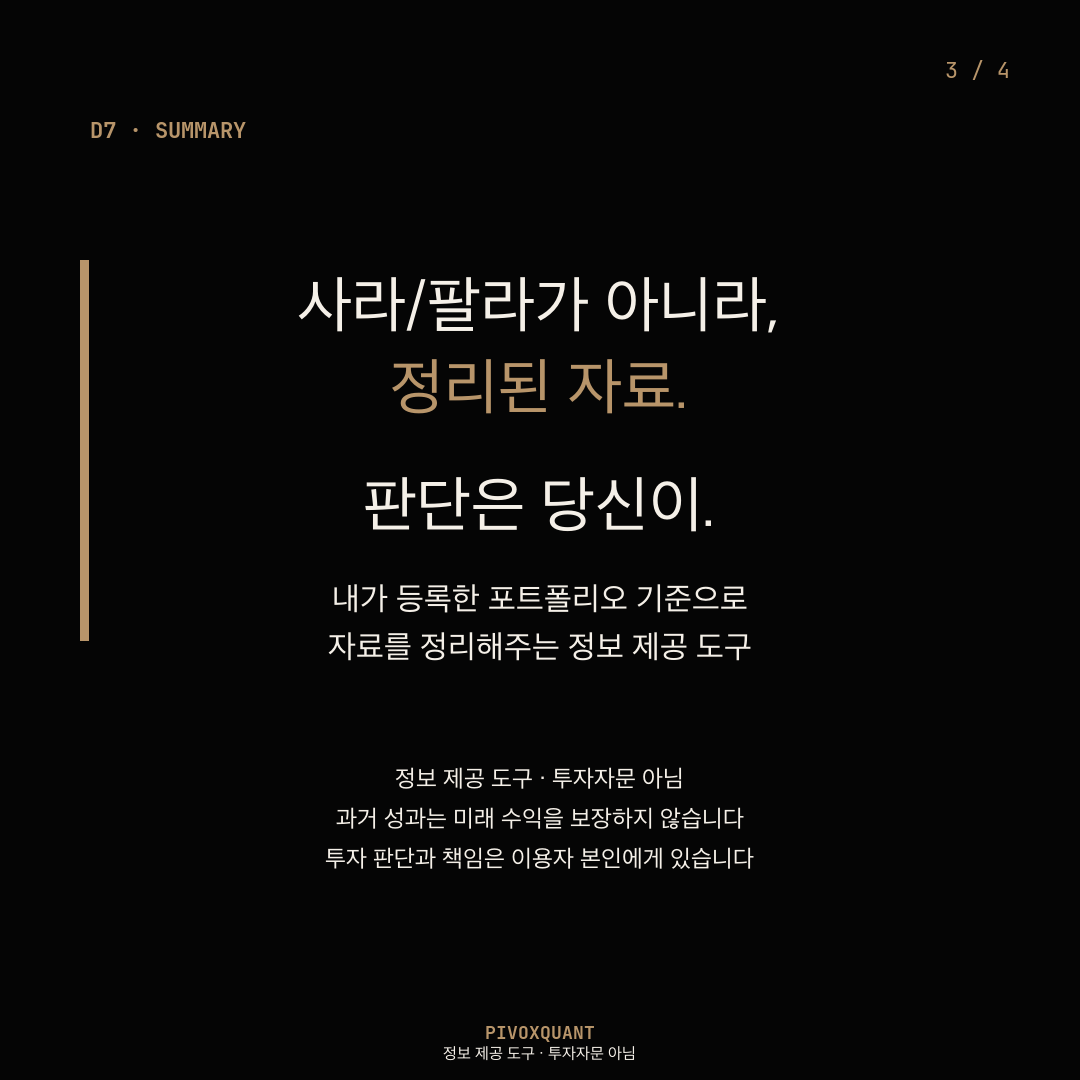
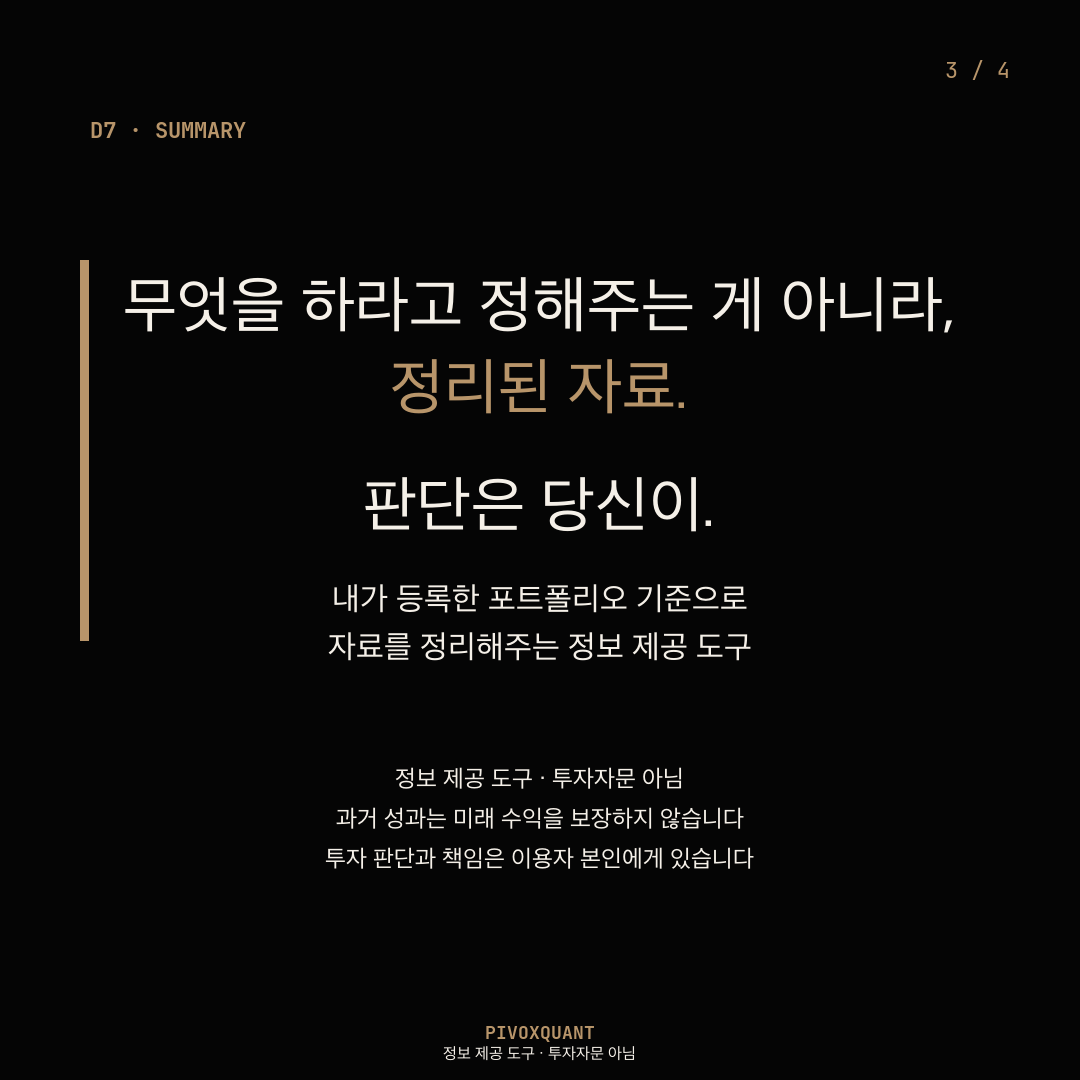
fix(marketing): §101 안전 표현으로 카드 이미지 텍스트 교체
- render_week1_cards.py:592 '이 종목 사라' → '이거 해라' (d4_slide4)
- render_week1_cards.py:862 '사라/팔라가 아니라' → '무엇을 하라고 정해주는 게 아니라' (d7_slide3)
- render_week2_cards.py:801 '"사라/팔라" 안 하냐면' → '무엇을 하라고 안 하냐면' (d12_reels_cover 포인트 박스)
- render_week2_cards.py:829 '사라/팔라 안 하냐면' → '무엇을 하라고 안 하냐면' (d12_reels_cover 자막 스펙)
- 영향 카드 3종 재렌더: d4_slide4_cta / d7_slide3_summary / d12_reels_cover
- grep 0건 확인(사라/팔라 잔존 없음)

Changed region(s): [[0.1222, 0.2444, 0.8861, 0.3056]]

diff --git a/scripts/marketing/render_week2_cards.py b/scripts/marketing/render_week2_cards.py
@@ -798,7 +798,7 @@ def render_d12_reels_cover():
     draw.rectangle([120, 910, W - 120, 1100],
                    outline=BRONZE + (60,), width=2)
     draw.text((W // 2, 960),
-              "왜 \"사라/팔라\" 안 하냐면",
+              "왜 무엇을 하라고 안 하냐면",
               font=f_body, fill=IVORY_D, anchor="mm")
     draw.text((W // 2, 1010),
               "— 정보만 정리하는 쪽이니까.",
@@ -826,7 +826,7 @@ def render_d12_reels_cover():
     captions = [
         ("0~3s",   '"1인 개발자 + AI 생성 콘텐츠 포함"'),
         ("3~12s",  "취준하면서 제 돈도 굴리는 개인 투자자"),
-        ("12~22s", "왜 사라/팔라 안 하냐면"),
+        ("12~22s", "왜 무엇을 하라고 안 하냐면"),
         ("      ", "— 정보만 정리하니까"),
         ("22~30s", "느리지만 과정 그대로. 피드백 환영"),
         ("끝",     "프로필 링크"),

diff --git a/scripts/marketing/render_week1_cards.py b/scripts/marketing/render_week1_cards.py
@@ -589,7 +589,7 @@ def render_d4_slide4():
               font=f_head, fill=BRONZE, anchor="mm")
 
     draw.text((W // 2, 540),
-              "\"이 종목 사라\"가 아니라",
+              "\"이거 해라\"가 아니라",
               font=f_sub, fill=IVORY_D, anchor="mm")
     draw.text((W // 2, 590),
               "\"이 데이터들 보고 판단은 네가 해\"",
@@ -859,7 +859,7 @@ def render_d7_slide3():
     # 인용구 스타일 (왼쪽 Bronze 바)
     draw.rectangle([80, 260, 88, 640], fill=BRONZE)
 
-    draw.text((W // 2, 308), "사라/팔라가 아니라,",
+    draw.text((W // 2, 308), "무엇을 하라고 정해주는 게 아니라,",
               font=f_head, fill=IVORY, anchor="mm")
     draw.text((W // 2, 390), "정리된 자료.",
               font=f_head, fill=BRONZE, anchor="mm")
